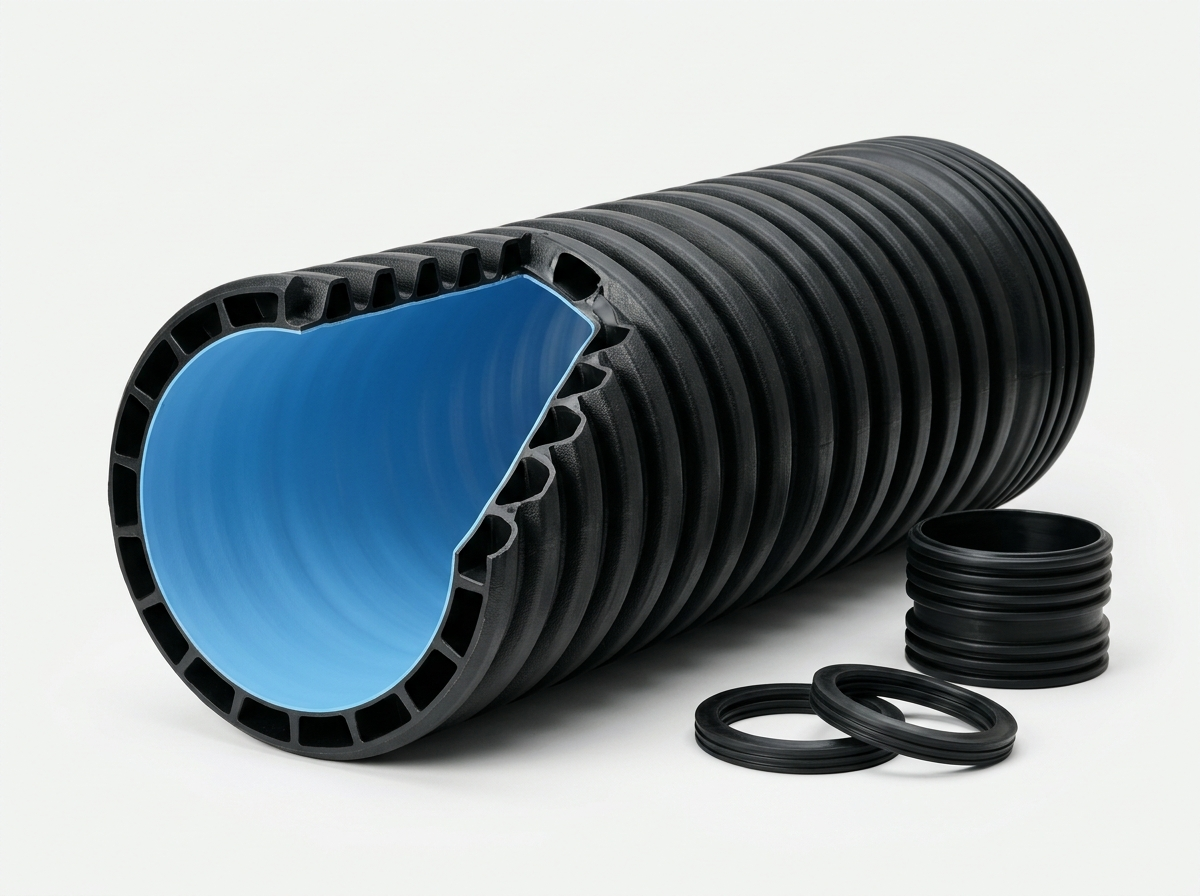
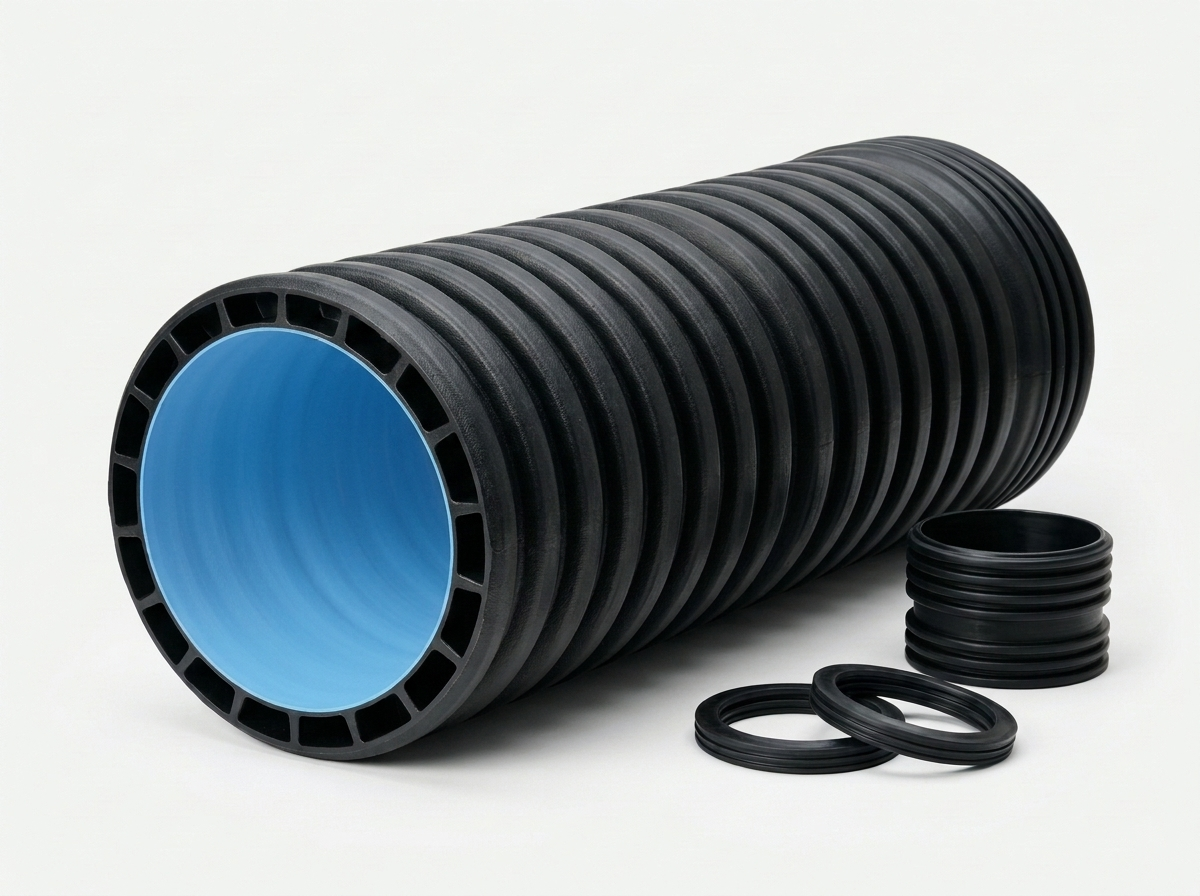
Use uploaded photo on all corrugated pipes, remove email, and format phone number

Changed region(s): [[0.2158, 0.25, 0.555, 0.6875]]

diff --git a/app.js b/app.js
@@ -13,14 +13,14 @@ const PIPE_CATALOG = {
     stiffnessLabel: 'SN 8 (≥ 8 кН/м²)',
     description: 'Двухслойная гофрированная труба из полиэтилена высокой плотности PE 100 (ГОСТ Р 54475-2011) с черным наружным профилированным слоем и гладким голубым внутренним слоем. Поставляется в отрезках по 6 метров в комплекте с 1 муфтой и 2 уплотнительными кольцами.',
     items: [
-      { key: 'sn8-110', series: 'sn8', od: 110, id: 91,  joint: 'coupling', jointLabel: 'Муфта + 2 кольца', priceM: 1050,  depth: 'до 8 м', photo: './assets/card-sn8-coupling.jpg' },
-      { key: 'sn8-160', series: 'sn8', od: 160, id: 139, joint: 'coupling', jointLabel: 'Муфта + 2 кольца', priceM: 1955,  depth: 'до 8 м', photo: './assets/pipe-sn8.jpg' },
-      { key: 'sn8-200', series: 'sn8', od: 200, id: 176, joint: 'coupling', jointLabel: 'Муфта + 2 кольца', priceM: 2935,  depth: 'до 8 м', photo: './assets/card-sn8-coupling.jpg' },
-      { key: 'sn8-250', series: 'sn8', od: 250, id: 216, joint: 'coupling', jointLabel: 'Муфта + 2 кольца', priceM: 4200,  depth: 'до 8 м', photo: './assets/pipe-sn8.jpg' },
-      { key: 'sn8-315', series: 'sn8', od: 315, id: 271, joint: 'coupling', jointLabel: 'Муфта + 2 кольца', priceM: 6600,  depth: 'до 8 м', photo: './assets/card-sn8-coupling.jpg' },
-      { key: 'sn8-400', series: 'sn8', od: 400, id: 343, joint: 'coupling', jointLabel: 'Муфта + 2 кольца', priceM: 9900,  depth: 'до 8 м', photo: './assets/hero-pipes.jpg' },
-      { key: 'sn8-500', series: 'sn8', od: 500, id: 431, joint: 'bell',     jointLabel: 'Раструб + 2 кольца', priceM: 13780, depth: 'до 8 м', photo: './assets/card-sn8-bell.jpg' },
-      { key: 'sn8-630', series: 'sn8', od: 630, id: 541, joint: 'bell',     jointLabel: 'Раструб + 2 кольца', priceM: 26380, depth: 'до 8 м', photo: './assets/card-sn8-bell.jpg' }
+      { key: 'sn8-110', series: 'sn8', od: 110, id: 91,  joint: 'coupling', jointLabel: 'Муфта + 2 кольца', priceM: 1050,  depth: 'до 8 м', photo: './assets/pipe-corrugated-main.jpg' },
+      { key: 'sn8-160', series: 'sn8', od: 160, id: 139, joint: 'coupling', jointLabel: 'Муфта + 2 кольца', priceM: 1955,  depth: 'до 8 м', photo: './assets/pipe-corrugated-main.jpg' },
+      { key: 'sn8-200', series: 'sn8', od: 200, id: 176, joint: 'coupling', jointLabel: 'Муфта + 2 кольца', priceM: 2935,  depth: 'до 8 м', photo: './assets/pipe-corrugated-main.jpg' },
+      { key: 'sn8-250', series: 'sn8', od: 250, id: 216, joint: 'coupling', jointLabel: 'Муфта + 2 кольца', priceM: 4200,  depth: 'до 8 м', photo: './assets/pipe-corrugated-main.jpg' },
+      { key: 'sn8-315', series: 'sn8', od: 315, id: 271, joint: 'coupling', jointLabel: 'Муфта + 2 кольца', priceM: 6600,  depth: 'до 8 м', photo: './assets/pipe-corrugated-main.jpg' },
+      { key: 'sn8-400', series: 'sn8', od: 400, id: 343, joint: 'coupling', jointLabel: 'Муфта + 2 кольца', priceM: 9900,  depth: 'до 8 м', photo: './assets/pipe-corrugated-main.jpg' },
+      { key: 'sn8-500', series: 'sn8', od: 500, id: 431, joint: 'bell',     jointLabel: 'Раструб + 2 кольца', priceM: 13780, depth: 'до 8 м', photo: './assets/pipe-corrugated-main.jpg' },
+      { key: 'sn8-630', series: 'sn8', od: 630, id: 541, joint: 'bell',     jointLabel: 'Раструб + 2 кольца', priceM: 26380, depth: 'до 8 м', photo: './assets/pipe-corrugated-main.jpg' }
     ]
   },
 
@@ -33,14 +33,14 @@ const PIPE_CATALOG = {
     stiffnessLabel: 'SN 10 (≥ 10 кН/м²)',
     description: 'Усиленная двухслойная гофрированная труба класса кольцевой жесткости SN 10 (ГОСТ Р 54475-2011) для прокладки на участках с повышенной грунтовой и транспортной нагрузкой. Отрезки L = 6 м в комплекте с муфтой и 2 кольцами EPDM.',
     items: [
-      { key: 'sn10-110', series: 'sn10', od: 110, id: 91,  joint: 'coupling', jointLabel: 'Муфта + 2 кольца', priceM: 1180,  depth: 'до 10 м', photo: './assets/card-sn8-coupling.jpg' },
-      { key: 'sn10-160', series: 'sn10', od: 160, id: 139, joint: 'coupling', jointLabel: 'Муфта + 2 кольца', priceM: 2190,  depth: 'до 10 м', photo: './assets/pipe-sn8.jpg' },
-      { key: 'sn10-200', series: 'sn10', od: 200, id: 176, joint: 'coupling', jointLabel: 'Муфта + 2 кольца', priceM: 3290,  depth: 'до 10 м', photo: './assets/card-sn8-coupling.jpg' },
-      { key: 'sn10-250', series: 'sn10', od: 250, id: 216, joint: 'coupling', jointLabel: 'Муфта + 2 кольца', priceM: 4700,  depth: 'до 10 м', photo: './assets/pipe-sn8.jpg' },
-      { key: 'sn10-315', series: 'sn10', od: 315, id: 271, joint: 'coupling', jointLabel: 'Муфта + 2 кольца', priceM: 7390,  depth: 'до 10 м', photo: './assets/card-sn8-coupling.jpg' },
-      { key: 'sn10-400', series: 'sn10', od: 400, id: 343, joint: 'coupling', jointLabel: 'Муфта + 2 кольца', priceM: 11090, depth: 'до 10 м', photo: './assets/hero-pipes.jpg' },
-      { key: 'sn10-500', series: 'sn10', od: 500, id: 431, joint: 'bell',     jointLabel: 'Раструб + 2 кольца', priceM: 15430, depth: 'до 10 м', photo: './assets/card-sn8-bell.jpg' },
-      { key: 'sn10-630', series: 'sn10', od: 630, id: 541, joint: 'bell',     jointLabel: 'Раструб + 2 кольца', priceM: 29550, depth: 'до 10 м', photo: './assets/card-sn8-bell.jpg' }
+      { key: 'sn10-110', series: 'sn10', od: 110, id: 91,  joint: 'coupling', jointLabel: 'Муфта + 2 кольца', priceM: 1180,  depth: 'до 10 м', photo: './assets/pipe-corrugated-main.jpg' },
+      { key: 'sn10-160', series: 'sn10', od: 160, id: 139, joint: 'coupling', jointLabel: 'Муфта + 2 кольца', priceM: 2190,  depth: 'до 10 м', photo: './assets/pipe-corrugated-main.jpg' },
+      { key: 'sn10-200', series: 'sn10', od: 200, id: 176, joint: 'coupling', jointLabel: 'Муфта + 2 кольца', priceM: 3290,  depth: 'до 10 м', photo: './assets/pipe-corrugated-main.jpg' },
+      { key: 'sn10-250', series: 'sn10', od: 250, id: 216, joint: 'coupling', jointLabel: 'Муфта + 2 кольца', priceM: 4700,  depth: 'до 10 м', photo: './assets/pipe-corrugated-main.jpg' },
+      { key: 'sn10-315', series: 'sn10', od: 315, id: 271, joint: 'coupling', jointLabel: 'Муфта + 2 кольца', priceM: 7390,  depth: 'до 10 м', photo: './assets/pipe-corrugated-main.jpg' },
+      { key: 'sn10-400', series: 'sn10', od: 400, id: 343, joint: 'coupling', jointLabel: 'Муфта + 2 кольца', priceM: 11090, depth: 'до 10 м', photo: './assets/pipe-corrugated-main.jpg' },
+      { key: 'sn10-500', series: 'sn10', od: 500, id: 431, joint: 'bell',     jointLabel: 'Раструб + 2 кольца', priceM: 15430, depth: 'до 10 м', photo: './assets/pipe-corrugated-main.jpg' },
+      { key: 'sn10-630', series: 'sn10', od: 630, id: 541, joint: 'bell',     jointLabel: 'Раструб + 2 кольца', priceM: 29550, depth: 'до 10 м', photo: './assets/pipe-corrugated-main.jpg' }
     ]
   },
 
@@ -53,14 +53,14 @@ const PIPE_CATALOG = {
     stiffnessLabel: 'SN 12 (≥ 12 кН/м²)',
     description: 'Двухслойная гофрированная труба тяжелого класса жесткости SN 12 (ГОСТ Р 54475-2011) из первичного полиэтилена PE 100 для автомагистралей, промышленных зон и глубокого заложения до 12 м.',
     items: [
-      { key: 'sn12-110', series: 'sn12', od: 110, id: 91,  joint: 'coupling', jointLabel: 'Муфта + 2 кольца', priceM: 1310,  depth: 'до 12 м', photo: './assets/card-sn8-coupling.jpg' },
-      { key: 'sn12-160', series: 'sn12', od: 160, id: 139, joint: 'coupling', jointLabel: 'Муфта + 2 кольца', priceM: 2440,  depth: 'до 12 м', photo: './assets/pipe-sn8.jpg' },
-      { key: 'sn12-200', series: 'sn12', od: 200, id: 176, joint: 'coupling', jointLabel: 'Муфта + 2 кольца', priceM: 3670,  depth: 'до 12 м', photo: './assets/card-sn8-coupling.jpg' },
-      { key: 'sn12-250', series: 'sn12', od: 250, id: 216, joint: 'coupling', jointLabel: 'Муфта + 2 кольца', priceM: 5250,  depth: 'до 12 м', photo: './assets/pipe-sn8.jpg' },
-      { key: 'sn12-315', series: 'sn12', od: 315, id: 271, joint: 'coupling', jointLabel: 'Муфта + 2 кольца', priceM: 8250,  depth: 'до 12 м', photo: './assets/card-sn8-coupling.jpg' },
-      { key: 'sn12-400', series: 'sn12', od: 400, id: 343, joint: 'coupling', jointLabel: 'Муфта + 2 кольца', priceM: 12380, depth: 'до 12 м', photo: './assets/hero-pipes.jpg' },
-      { key: 'sn12-500', series: 'sn12', od: 500, id: 431, joint: 'bell',     jointLabel: 'Раструб + 2 кольца', priceM: 17220, depth: 'до 12 м', photo: './assets/card-sn8-bell.jpg' },
-      { key: 'sn12-630', series: 'sn12', od: 630, id: 541, joint: 'bell',     jointLabel: 'Раструб + 2 кольца', priceM: 32970, depth: 'до 12 м', photo: './assets/card-sn8-bell.jpg' }
+      { key: 'sn12-110', series: 'sn12', od: 110, id: 91,  joint: 'coupling', jointLabel: 'Муфта + 2 кольца', priceM: 1310,  depth: 'до 12 м', photo: './assets/pipe-corrugated-main.jpg' },
+      { key: 'sn12-160', series: 'sn12', od: 160, id: 139, joint: 'coupling', jointLabel: 'Муфта + 2 кольца', priceM: 2440,  depth: 'до 12 м', photo: './assets/pipe-corrugated-main.jpg' },
+      { key: 'sn12-200', series: 'sn12', od: 200, id: 176, joint: 'coupling', jointLabel: 'Муфта + 2 кольца', priceM: 3670,  depth: 'до 12 м', photo: './assets/pipe-corrugated-main.jpg' },
+      { key: 'sn12-250', series: 'sn12', od: 250, id: 216, joint: 'coupling', jointLabel: 'Муфта + 2 кольца', priceM: 5250,  depth: 'до 12 м', photo: './assets/pipe-corrugated-main.jpg' },
+      { key: 'sn12-315', series: 'sn12', od: 315, id: 271, joint: 'coupling', jointLabel: 'Муфта + 2 кольца', priceM: 8250,  depth: 'до 12 м', photo: './assets/pipe-corrugated-main.jpg' },
+      { key: 'sn12-400', series: 'sn12', od: 400, id: 343, joint: 'coupling', jointLabel: 'Муфта + 2 кольца', priceM: 12380, depth: 'до 12 м', photo: './assets/pipe-corrugated-main.jpg' },
+      { key: 'sn12-500', series: 'sn12', od: 500, id: 431, joint: 'bell',     jointLabel: 'Раструб + 2 кольца', priceM: 17220, depth: 'до 12 м', photo: './assets/pipe-corrugated-main.jpg' },
+      { key: 'sn12-630', series: 'sn12', od: 630, id: 541, joint: 'bell',     jointLabel: 'Раструб + 2 кольца', priceM: 32970, depth: 'до 12 м', photo: './assets/pipe-corrugated-main.jpg' }
     ]
   },
 
@@ -73,14 +73,14 @@ const PIPE_CATALOG = {
     stiffnessLabel: 'SN 16 (≥ 16 кН/м²)',
     description: 'Сверхпрочная двухслойная гофрированная труба максимального класса кольцевой жесткости SN 16 (ГОСТ Р 54475-2011) для особо ответственных объектов, аэропортов, железных дорог и глубин заложения до 16 м.',
     items: [
-      { key: 'sn16-110', series: 'sn16', od: 110, id: 91,  joint: 'coupling', jointLabel: 'Муфта + 2 кольца', priceM: 1490,  depth: 'до 16 м', photo: './assets/card-sn8-coupling.jpg' },
-      { key: 'sn16-160', series: 'sn16', od: 160, id: 139, joint: 'coupling', jointLabel: 'Муфта + 2 кольца', priceM: 2780,  depth: 'до 16 м', photo: './assets/pipe-sn8.jpg' },
-      { key: 'sn16-200', series: 'sn16', od: 200, id: 176, joint: 'coupling', jointLabel: 'Муфта + 2 кольца', priceM: 4170,  depth: 'до 16 м', photo: './assets/card-sn8-coupling.jpg' },
-      { key: 'sn16-250', series: 'sn16', od: 250, id: 216, joint: 'coupling', jointLabel: 'Муфта + 2 кольца', priceM: 5960,  depth: 'до 16 м', photo: './assets/pipe-sn8.jpg' },
-      { key: 'sn16-315', series: 'sn16', od: 315, id: 271, joint: 'coupling', jointLabel: 'Муфта + 2 кольца', priceM: 9370,  depth: 'до 16 м', photo: './assets/card-sn8-coupling.jpg' },
-      { key: 'sn16-400', series: 'sn16', od: 400, id: 343, joint: 'coupling', jointLabel: 'Муфта + 2 кольца', priceM: 14060, depth: 'до 16 м', photo: './assets/hero-pipes.jpg' },
-      { key: 'sn16-500', series: 'sn16', od: 500, id: 431, joint: 'bell',     jointLabel: 'Раструб + 2 кольца', priceM: 19570, depth: 'до 16 м', photo: './assets/card-sn8-bell.jpg' },
-      { key: 'sn16-630', series: 'sn16', od: 630, id: 541, joint: 'bell',     jointLabel: 'Раструб + 2 кольца', priceM: 37460, depth: 'до 16 м', photo: './assets/card-sn8-bell.jpg' }
+      { key: 'sn16-110', series: 'sn16', od: 110, id: 91,  joint: 'coupling', jointLabel: 'Муфта + 2 кольца', priceM: 1490,  depth: 'до 16 м', photo: './assets/pipe-corrugated-main.jpg' },
+      { key: 'sn16-160', series: 'sn16', od: 160, id: 139, joint: 'coupling', jointLabel: 'Муфта + 2 кольца', priceM: 2780,  depth: 'до 16 м', photo: './assets/pipe-corrugated-main.jpg' },
+      { key: 'sn16-200', series: 'sn16', od: 200, id: 176, joint: 'coupling', jointLabel: 'Муфта + 2 кольца', priceM: 4170,  depth: 'до 16 м', photo: './assets/pipe-corrugated-main.jpg' },
+      { key: 'sn16-250', series: 'sn16', od: 250, id: 216, joint: 'coupling', jointLabel: 'Муфта + 2 кольца', priceM: 5960,  depth: 'до 16 м', photo: './assets/pipe-corrugated-main.jpg' },
+      { key: 'sn16-315', series: 'sn16', od: 315, id: 271, joint: 'coupling', jointLabel: 'Муфта + 2 кольца', priceM: 9370,  depth: 'до 16 м', photo: './assets/pipe-corrugated-main.jpg' },
+      { key: 'sn16-400', series: 'sn16', od: 400, id: 343, joint: 'coupling', jointLabel: 'Муфта + 2 кольца', priceM: 14060, depth: 'до 16 м', photo: './assets/pipe-corrugated-main.jpg' },
+      { key: 'sn16-500', series: 'sn16', od: 500, id: 431, joint: 'bell',     jointLabel: 'Раструб + 2 кольца', priceM: 19570, depth: 'до 16 м', photo: './assets/pipe-corrugated-main.jpg' },
+      { key: 'sn16-630', series: 'sn16', od: 630, id: 541, joint: 'bell',     jointLabel: 'Раструб + 2 кольца', priceM: 37460, depth: 'до 16 м', photo: './assets/pipe-corrugated-main.jpg' }
     ]
   },
 

diff --git a/index.html b/index.html
@@ -36,7 +36,7 @@
             <svg viewBox="0 0 24 24" width="16" height="16" fill="none" stroke="currentColor" stroke-width="2.2" stroke-linecap="round" stroke-linejoin="round" aria-hidden="true">
               <path d="M22 16.92v3a2 2 0 0 1-2.18 2 19.79 19.79 0 0 1-8.63-3.07 19.5 19.5 0 0 1-6-6 19.79 19.79 0 0 1-3.07-8.67A2 2 0 0 1 4.11 2h3a2 2 0 0 1 2 1.72 12.84 12.84 0 0 0 .7 2.81 2 2 0 0 1-.45 2.11L8.09 9.91a16 16 0 0 0 6 6l1.27-1.27a2 2 0 0 1 2.11-.45 12.84 12.84 0 0 0 2.81.7A2 2 0 0 1 22 16.92z"/>
             </svg>
-            <span>+7 777 700 30 00</span>
+            <span>+7 777 700 3000</span>
           </a>
 
           <a
@@ -89,7 +89,7 @@
 
       <div class="mobile-drawer-bottom">
         <a href="tel:+77777003000" class="drawer-phone-row">
-          +7 777 700 30 00
+          +7 777 700 3000
         </a>
         <div class="drawer-btn-stack">
           <a href="https://wa.me/77777003000" target="_blank" rel="noopener noreferrer" class="drawer-action-btn drawer-btn-blue">
@@ -345,7 +345,7 @@
               </div>
               <div>
                 <span class="footer-contact-lbl">Телефон отдела продаж</span>
-                <strong class="footer-contact-val">+7 777 700 30 00</strong>
+                <strong class="footer-contact-val">+7 777 700 3000</strong>
               </div>
             </a>
 
@@ -355,20 +355,7 @@
               </div>
               <div>
                 <span class="footer-contact-lbl">WhatsApp (консультация и КП)</span>
-                <strong class="footer-contact-val">+7 777 700 30 00</strong>
-              </div>
-            </a>
-
-            <a href="mailto:info@summus.kz" class="footer-contact-item">
-              <div class="footer-contact-icon">
-                <svg viewBox="0 0 24 24" width="20" height="20" fill="none" stroke="currentColor" stroke-width="2" stroke-linecap="round" stroke-linejoin="round" aria-hidden="true">
-                  <rect x="2" y="4" width="20" height="16" rx="2"/>
-                  <path d="m22 7-8.97 5.7a1.94 1.94 0 0 1-2.06 0L2 7"/>
-                </svg>
-              </div>
-              <div>
-                <span class="footer-contact-lbl">Электронная почта</span>
-                <strong class="footer-contact-val">info@summus.kz</strong>
+                <strong class="footer-contact-val">+7 777 700 3000</strong>
               </div>
             </a>
 
@@ -543,7 +530,7 @@
           <div class="order-status" id="kpOrderStatus" role="status"></div>
         </form>
 
-        <!-- Contact Buttons Row Under Form: WhatsApp, Почта, Позвонить -->
+        <!-- Contact Buttons Row Under Form: WhatsApp & Позвонить -->
         <div class="kp-contact-divider">
           <span>или свяжитесь с нами напрямую</span>
         </div>
@@ -554,14 +541,6 @@
               <img src="./assets/icon-whatsapp.png" alt="WhatsApp" class="wa-icon-img" />
             </span>
             <span>WhatsApp</span>
-          </a>
-
-          <a href="mailto:info@summus.kz" class="kp-contact-btn kp-email">
-            <svg viewBox="0 0 24 24" width="20" height="20" fill="none" stroke="currentColor" stroke-width="2" stroke-linecap="round" stroke-linejoin="round" aria-hidden="true">
-              <rect x="2" y="4" width="20" height="16" rx="2"/>
-              <path d="m22 7-8.97 5.7a1.94 1.94 0 0 1-2.06 0L2 7"/>
-            </svg>
-            <span>Почта</span>
           </a>
 
           <a href="tel:+77777003000" class="kp-contact-btn kp-call">

diff --git a/styles.css b/styles.css
@@ -1714,7 +1714,7 @@ button, input, select, textarea {
 
 .kp-contact-actions {
   display: grid;
-  grid-template-columns: repeat(3, 1fr);
+  grid-template-columns: repeat(2, 1fr);
   gap: 10px;
 }
 
